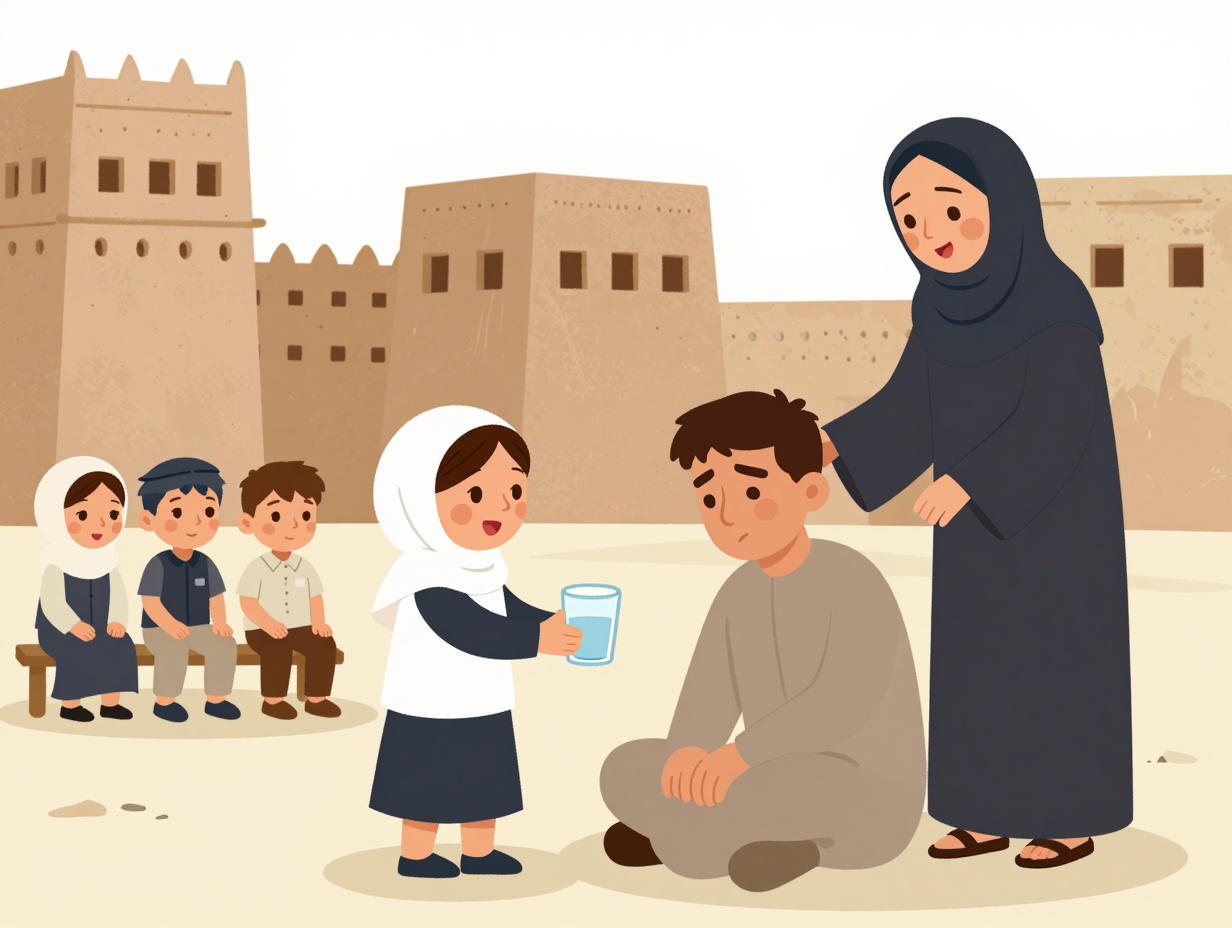
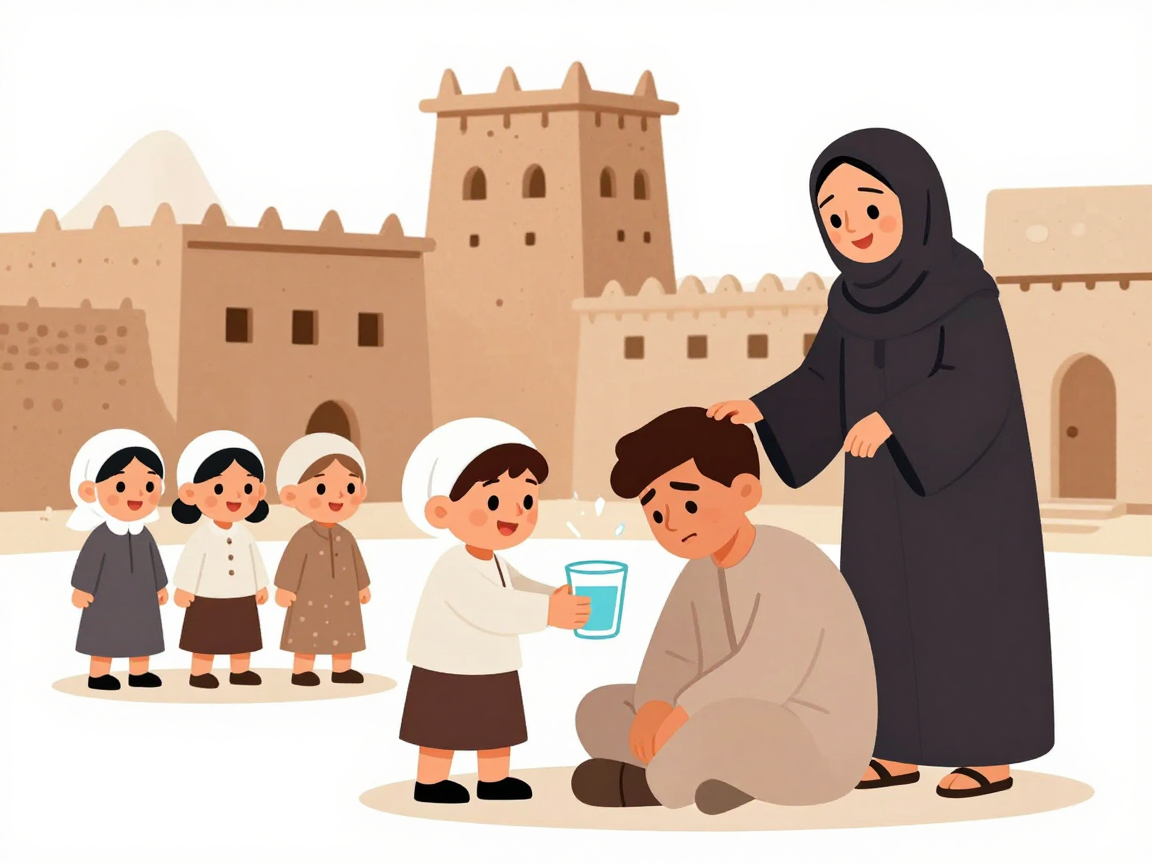
feat(imagegen): Yemen lesson illustrations on z-image — a fifth of the cost, Yemen only
Reviewer's instruction, 17 Sep 2026: keep kie.ai as the provider, use the
cheapest model that still draws an acceptable lesson illustration, recommend
anything cheaper than z-image first, leave the diagram/labelling flows alone,
and make sure nothing falls back to nano-banana-2-lite in silence.

WHY z-image. kie publishes no price list, so its own catalogue was read
(GET /api/v1/models — 206 models, 32 text-to-image):

  z-image (Z Image Turbo)   0.8 credits  ~$0.004   cheapest real generator
  bytedance/seedream (V3)   3.5 credits  ~$0.0175    next cheapest, 4.4x more
  nano-banana-2-lite        4.0 credits  ~$0.02      the previous default, 5x more

Two entries look cheaper and are not: recraft/crisp-upscale (0.5cr) is an
UPSCALER that cannot draw from a prompt and which kie mislabels as Text to
Image; seedream/5-pro quotes 0.5cr for an INPUT reference image while
generation is 7cr. Nothing undercuts z-image, and kie flags NO model as free —
there is no zero-cost generator to pick. Measured on six live generations:
5.14 credits, 0.86 per image, which matches the quoted 0.8.

YEMEN ONLY, BY CONSTRUCTION. Yemen is the only region integrated, so the choice
does not belong in the shared LADDERS table — editing that would have moved
Kenya, Tanzania and Pakistan too. A new REGION_LADDERS declares per-region
overrides; a region with no entry resolves exactly as before. The region is now
threaded through route() and into imagegen/index.js, and the dry-run CLI passes
[…]

diff --git a/imagegen/test/route.test.js b/imagegen/test/route.test.js
@@ -2,17 +2,25 @@
 const test = require('node:test');
 const assert = require('node:assert');
 const { route, modelInput } = require('../route');
+const { LADDERS } = require('../config/models.config');
 
-// SINGLE-MODEL POLICY (owner decision, 2026-08-18): every generated image comes from
-// nano-banana-2-lite, whatever the content kind or the script. These tests used to
-// assert the old cost ladder (seedream / qwen2 / nano-banana-2 escalations); they now
-// guard against those escalations coming back, which is what would quietly raise the
-// per-lesson cost again.
-test('every image kind routes to the one model, with no fallback ladder', () => {
-  for (const kind of ['decorative_scene', 'labeled_diagram']) {
-    const r = route(kind);
+// ONE MODEL PER JOB, AND NO ESCALATION LADDER.
+//
+// The single-model policy (owner decision, 2026-08-18) put nano-banana-2-lite on every
+// image kind. That still holds for LABELLED DIAGRAMS, where readable words have to appear
+// inside the picture and the Arabic bake-off settled the choice on evidence. It no longer
+// holds for LESSON ILLUSTRATIONS: a wordless scene does not need label fidelity, so the
+// reviewer's cost instruction (17 Sep 2026) moved those to z-image at 0.8 credits against
+// 4.0 — a fifth of the price for a job that does not exercise the difference.
+//
+// What has not changed is the shape: ONE entry per kind. A second entry is a
+// gate-escalation path, and that is what used to make the per-lesson cost unpredictable.
+test('each image kind routes to one model, with no fallback ladder', () => {
+  const expected = { decorative_scene: 'z-image', labeled_diagram: 'nano-banana-2-lite' };
+  for (const [kind, model] of Object.entries(expected)) {
+    const r = route(kind, 'ar', 'ye');
     assert.strictEqual(r.needsImage, true, `${kind} should need an image`);
-    assert.deepStrictEqual(r.ladder, ['nano-banana-2-lite'], `${kind} must not escalate`);
+    assert.deepStrictEqual(r.ladder, [model], `${kind} must not escalate`);
   }
 });
 
@@ -81,5 +89,83 @@ test('a registered LP_ART_MODEL is still honoured for every image category', () 
     }
   } finally {
     if (prev === undefined) delete process.env.LP_ART_MODEL; else process.env.LP_ART_MODEL = prev;
+  }
+});
+
+// ── THE COST CONTRACT FOR LESSON ILLUSTRATIONS ──────────────────────────────────────
+// Reviewer's instruction, 17 Sep 2026: lesson illustrations use the cheapest model that
+// still draws an acceptable picture, and nothing may quietly fall back to the dearer
+// nano-banana-2-lite. These tests are the contract, so a later edit cannot raise the bill
+// by accident — the difference is 0.8 credits against 4.0, five times over, per image.
+test('a lesson illustration is drawn by z-image, and by exactly one model', () => {
+  const prev = process.env.LP_ART_MODEL;
+  delete process.env.LP_ART_MODEL;                     // the committed default, not an override
+  try {
+    const ladder = route('decorative_scene', 'ar', 'ye').ladder;
+    assert.deepStrictEqual(ladder, ['z-image'],
+      'the illustration ladder is no longer z-image alone');
+    // a second entry IS the silent escalation path — one model, or the cost is unbounded
+    assert.strictEqual(ladder.length, 1,
+      'a fallback entry would escalate from $0.004 to a dearer model without saying so');
+    assert.ok(!ladder.includes('nano-banana-2-lite'),
+      'nano-banana-2-lite is 5× the price and must not be reachable for an illustration');
+  } finally {
+    if (prev !== undefined) process.env.LP_ART_MODEL = prev;
+  }
+});
+
+test('the locale cannot route an illustration to a dearer model', () => {
+  const prev = process.env.LP_ART_MODEL;
+  delete process.env.LP_ART_MODEL;
+  try {
+    // ar/ur take the complex-script branch for DIAGRAMS; an illustration must not follow it
+    for (const loc of ['ar', 'ur', 'en', 'sw', undefined]) {
+      assert.deepStrictEqual(route('decorative_scene', loc, 'ye').ladder, ['z-image'],
+        `locale ${loc} moved the Yemen illustration off z-image`);
+    }
+  } finally {
+    if (prev !== undefined) process.env.LP_ART_MODEL = prev;
+  }
+});
+
+test('the diagram and labelling flows are left exactly as they were', () => {
+  const prev = process.env.LP_ART_MODEL;
+  delete process.env.LP_ART_MODEL;
+  try {
+    // The reviewer asked for these to be untouched: a labelled diagram must render readable
+    // words inside the image, which the Arabic bake-off settled on evidence z-image has
+    // never been tested against. Pinned so cheaper artwork cannot creep into them.
+    for (const reg of ['ye', 'ke', 'tz', 'pk', undefined]) {
+      assert.deepStrictEqual(route('labeled_diagram', 'en', reg).ladder, ['nano-banana-2-lite']);
+      assert.deepStrictEqual(route('labeled_diagram', 'ar', reg).ladder, ['nano-banana-2-lite']);
+      assert.deepStrictEqual(route('labeled_diagram', 'ur', reg).ladder, ['nano-banana-2-lite']);
+    }
+  } finally {
+    if (prev !== undefined) process.env.LP_ART_MODEL = prev;
+  }
+});
+
+// ── YEMEN ONLY. THE WHOLE POINT. ─────────────────────────────────────────────────────
+// Yemen is the only region integrated so far. A cost change made for Yemen that also
+// moved Kenya, Tanzania or Pakistan would be a change to regions nobody has reviewed,
+// which the Design lane's standing constraint forbids. This is the test that makes the
+// scoping real rather than a claim in a comment: it FAILS if the illustration model is
+// edited in LADDERS (the shared default) instead of in Yemen's own entry.
+test('only Yemen moves — every other region keeps the default illustration model', () => {
+  const prev = process.env.LP_ART_MODEL;
+  delete process.env.LP_ART_MODEL;
+  try {
+    assert.deepStrictEqual(route('decorative_scene', 'ar', 'ye').ladder, ['z-image'],
+      'Yemen should be on the cheap illustration model');
+    for (const reg of ['ke', 'tz', 'pk', 'in', '', undefined]) {
+      assert.deepStrictEqual(route('decorative_scene', 'sw', reg).ladder, ['nano-banana-2-lite'],
+        `region ${JSON.stringify(reg)} was moved off the default — this change must be Yemen-only`);
+    }
+    // and the shared default itself must still read nano-banana-2-lite, so that a future
+    // region inherits what it inherited before this change
+    assert.deepStrictEqual(LADDERS.decorative_scene, ['nano-banana-2-lite'],
+      'the shared default was edited instead of Yemen declaring its own model');
+  } finally {
+    if (prev !== undefined) process.env.LP_ART_MODEL = prev;
   }
 });

diff --git a/imagegen/config/models.config.js b/imagegen/config/models.config.js
@@ -47,11 +47,56 @@ const LADDERS = {
   labeled_diagram_complex: ['nano-banana-2-lite'],
 };
 
+// ── PER-REGION OVERRIDES — ONE REGION AT A TIME, BY CONSTRUCTION ────────────────────
+//
+// LADDERS above is the default for EVERY region and is not to be edited for one region's
+// sake. Yemen is the only region integrated so far, and a change made in LADDERS would
+// silently change Kenya, Tanzania and Pakistan with it — which is exactly what the Design
+// lane's standing constraint forbids. A region that wants a different model for one
+// category declares it here; a region with no entry keeps the default untouched.
+//
+// YEMEN — LESSON ILLUSTRATIONS ON z-image (reviewer's cost instruction, 17 Sep 2026).
+// The ask was the cheapest model that still draws an acceptable lesson illustration, with
+// anything cheaper than z-image to be recommended first. kie's own catalogue settles it
+// (GET /api/v1/models — 206 models, 32 text-to-image; kie publishes no price list
+// anywhere else):
+//
+//   z-image (Z Image Turbo)   0.8 credits  ~$0.004   ← cheapest real generator
+//   bytedance/seedream (V3)   3.5 credits  ~$0.0175    next cheapest, 4.4× more
+//   nano-banana-2-lite        4.0 credits  ~$0.02      the default, 5× more
+//   nano-banana-2             8.0 credits  ~$0.04
+//
+// Two entries LOOK cheaper and are not: `recraft/crisp-upscale` (0.5cr) is an UPSCALER —
+// it cannot draw from a prompt, and kie mislabels its taskType as Text to Image; and
+// `seedream/5-pro` quotes 0.5cr for an INPUT reference image while generation is 7cr
+// ($0.035), among the dearest. Nothing in the catalogue undercuts z-image for generation,
+// and kie flags NO model as free — there is no zero-cost generator to choose.
+//
+// Quality is measured, not assumed: 0.86 credits per image observed across six live
+// generations (5.14 credits total), and the six illustrations were reviewed in the
+// rendered pages beside their nano-banana predecessors.
+//
+// ONE ENTRY, DELIBERATELY. A second entry is a gate-escalation path, and escalating from
+// $0.004 to $0.02 without saying so is the silent fallback this change exists to rule out.
+// If the gate rejects a z-image the pipeline's retry pass rolls z-image again (same ladder,
+// fresh sample); failing that the lesson ships without a photograph, and the code-drawn
+// figures cost nothing and carry the teaching content regardless.
+//
+// DIAGRAMS AND LABELLING ARE NOT LISTED HERE, DELIBERATELY. A labelled diagram must render
+// readable words inside the image — a different and much harder job than a wordless scene,
+// settled for Arabic by the bake-off cited above, which z-image has never been tested
+// against. Cheaper artwork is not a reason to re-open a legibility question that was
+// answered with evidence.
+const REGION_LADDERS = {
+  ye: { decorative_scene: ['z-image'] },
+};
+
 // Scripts whose in-image labels only the strongest model renders reliably.
 const COMPLEX_SCRIPT = new Set(['ar', 'ur', 'sd', 'fa', 'ps']);
 
-// Resolve the model list for a category, honouring the lesson locale for diagrams.
-function ladderFor(category, locale) {
+// Resolve the model list for a category, honouring the lesson locale for diagrams and the
+// region for anything that region has declared for itself.
+function ladderFor(category, locale, region) {
   // ARTWORK MODEL OVERRIDE: with LP_ART_MODEL set, every illustration comes from
   // that one model. Used for the open-source artwork track (LP_ART_MODEL=z-image),
   // where the model draws wordless art and code renders all teaching content.
@@ -75,7 +120,11 @@ function ladderFor(category, locale) {
   if (category === 'labeled_diagram' && COMPLEX_SCRIPT.has(String(locale || '').toLowerCase())) {
     return LADDERS.labeled_diagram_complex;
   }
+  // A region's own declaration wins for the categories it names, and ONLY those. A region
+  // that declares nothing — every region but Yemen today — resolves exactly as before.
+  const own = REGION_LADDERS[String(region || '').toLowerCase()];
+  if (own && own[category]) return own[category];
   return LADDERS[category] || [];
 }
 
-module.exports = { MODELS, LADDERS, COMPLEX_SCRIPT, ladderFor };
+module.exports = { MODELS, LADDERS, REGION_LADDERS, COMPLEX_SCRIPT, ladderFor };

diff --git a/imagegen/test/index.test.js b/imagegen/test/index.test.js
@@ -21,6 +21,8 @@ test('generates an image for the hook, skips the structured block', async () => 
   const board = images.find((i) => i.blockType === 'BOARD_WORK');
   assert.strictEqual(hook.category, 'decorative_scene');
   assert.strictEqual(hook.asset.url, 'http://img/hook.png');
+  // this fixture is region 'pk', which keeps the shared default — Yemen's cheaper
+  // illustration model must not leak into any other region
   assert.strictEqual(hook.model, 'nano-banana-2-lite');
   assert.strictEqual(board.needsImage, false);
   assert.strictEqual(board.asset, null);
@@ -32,7 +34,9 @@ test('the ladder is a single model — no escalation to a costlier one', async (
   const gateImpl = async () => ({ pass: true });
   const { images } = await resolveSegmentImages(segment, { apiKey: 'k', generateImpl, gateImpl, cache: new MemoryAssetCache(), budget: new BudgetGuard(100) });
   const hook = images.find((i) => i.blockType === 'HOOK_STORY');
-  // One model for every image (owner decision): the ladder must not reach past it.
+  // ONE model per job, and the ladder must not reach past it: a second generation at a
+  // dearer model is the silent escalation the cost instruction rules out, so `seen` must
+  // hold exactly one distinct slug. (region 'pk' → the shared default.)
   assert.strictEqual(seen[0], 'nano-banana-2-lite');
   assert.deepStrictEqual([...new Set(seen)], ['nano-banana-2-lite']);
   assert.strictEqual(hook.model, 'nano-banana-2-lite');
@@ -68,4 +72,18 @@ test('a cache hit skips generation', async () => {
   const before = called;
   await resolveSegmentImages(segment, opts);
   assert.strictEqual(called, before, 'no new generation on the cached run');
+});
+
+// The same segment, resolved for Yemen: the only region that has declared its own
+// illustration model. Run through resolveSegmentImages rather than route() alone, so the
+// whole path — classify → route → generate — is what is being checked.
+test('a Yemen segment generates its illustration on z-image', async () => {
+  const seen = [];
+  const generateImpl = async ({ model }) => { seen.push(model); return { ok: true, model, url: 'http://img/ye.png', creditsConsumed: 0.8 }; };
+  const gateImpl = async () => ({ pass: true });
+  const { images } = await resolveSegmentImages({ ...segment, region: 'ye', locale: 'ar' },
+    { apiKey: 'k', generateImpl, gateImpl, cache: new MemoryAssetCache(), budget: new BudgetGuard(100) });
+  const hook = images.find((i) => i.blockType === 'HOOK_STORY');
+  assert.strictEqual(hook.model, 'z-image');
+  assert.deepStrictEqual([...new Set(seen)], ['z-image'], 'Yemen escalated past z-image');
 });

diff --git a/imagegen/test/cli-dry.test.js b/imagegen/test/cli-dry.test.js
@@ -16,8 +16,18 @@ test('dryRun reports category + model + prompt per block, no network', () => {
   const hook = rows.find((r) => r.blockType === 'HOOK_STORY');
   const board = rows.find((r) => r.blockType === 'BOARD_WORK');
   assert.strictEqual(hook.category, 'decorative_scene');
+  // region 'pk' → the shared default. A dry run must report what the RUN will use.
   assert.strictEqual(hook.model, 'nano-banana-2-lite');
   assert.match(hook.prompt, /Ali/);
   assert.strictEqual(board.needsImage, false);
   assert.strictEqual(board.model, null);
+});
+
+// A dry run is answering "what will this cost", so it has to resolve the region the same
+// way a real run does. It used to call route(category) with neither locale nor region and
+// report the shared default for every lesson.
+test('a dry run reports the region\'s own model, not the shared default', () => {
+  const rows = dryRun({ ...segment, region: 'ye', locale: 'ar' });
+  const hook = rows.find((r) => r.blockType === 'HOOK_STORY');
+  assert.strictEqual(hook.model, 'z-image');
 });

diff --git a/imagegen/route.js b/imagegen/route.js
@@ -2,9 +2,11 @@
 const { MODELS, ladderFor } = require('./config/models.config');
 
 // Resolve which model(s) a category uses. `locale` selects the script-appropriate
-// diagram models (e.g. Arabic → a model that renders Arabic labels first-try).
-function route(category, locale) {
-  const ladder = ladderFor(category, locale);
+// diagram models (e.g. Arabic → a model that renders Arabic labels first-try). `region`
+// lets a single region declare its own model for a category without moving any other
+// region — Yemen is the only one that does today.
+function route(category, locale, region) {
+  const ladder = ladderFor(category, locale, region);
   return { needsImage: ladder.length > 0, ladder };
 }
 

diff --git a/imagegen/cli.js b/imagegen/cli.js
@@ -10,7 +10,10 @@ const { resolveSegmentImages } = require('./index');
 function dryRun(segment) {
   return (segment.blocks || []).map((block) => {
     const { category, needsImage, reason } = classifyBlock(block, segment);
-    const { ladder } = route(category);
+    // Pass the segment's own locale AND region: a dry run that reports the DEFAULT model
+    // while the real run uses the region's own is worse than no dry run — it is a wrong
+    // answer to "what will this cost".
+    const { ladder } = route(category, segment.locale, segment.region);
     return {
       blockType: block.type, category, needsImage,
       model: ladder[0] || null,

diff --git a/imagegen/index.js b/imagegen/index.js
@@ -27,7 +27,7 @@ async function resolveSegmentImages(segment = {}, opts = {}) {
 
     // A block may force a specific model (e.g. an open-weight flux/qwen); otherwise
     // walk the category's cost-ascending ladder. Either way the gate still decides.
-    const ladder = block.model ? [block.model] : route(category, segment.locale).ladder;
+    const ladder = block.model ? [block.model] : route(category, segment.locale, segment.region).ladder;
     const prompt = resolvePrompt({ category, subject: segment.subject, block, region, grade: segment.grade, locale: segment.locale });
     const expectation = block.text || segment.topic || category;
 
